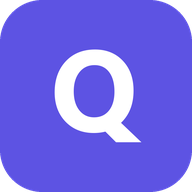
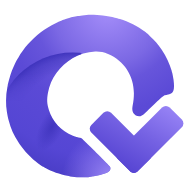
enterlogo chiqdi

diff --git a/src/components/layout/desktop/sidebar/Sidebar.tsx b/src/components/layout/desktop/sidebar/Sidebar.tsx
@@ -21,6 +21,7 @@ import { tagColorVar } from "@/utils/tagColor";
 import { todayApiDate } from "@/utils/apiDate";
 import { CusPopover } from "@/components/ui/popover/CusPopover";
 import { CusBadge } from "@/components/ui/badge/CusBadge";
+import { QubnixLogoIntro } from "@/components/shared/enter-logo-page/EnterLogoPage";
 import { personalSummaryQuery, workspaceListQuery } from "@/queries/doska.queries";
 import { useProjectsByDate } from "@/queries/tasks.queries";
 import type { OrganizationType } from "@/api/organizations/organizations.types";
@@ -67,6 +68,8 @@ export function Sidebar() {
   const navigate = useNavigate();
   const collapsed = useUiStore((s) => s.isSidebarCollapsed);
   const toggleSidebar = useUiStore((s) => s.toggleSidebar);
+  // "system" emas: ui.store faqat `.dark` qo'yadi — OS dark + ilova light bo'lsa matn oq chiqardi.
+  const logoTheme = useUiStore((s) => (s.isDarkMode ? "dark" : "light"));
 
   const selectedWorkspaceId = useWorkspaceStore((s) => s.selectedWorkspaceId);
   const selectWorkspace = useWorkspaceStore((s) => s.selectWorkspace);
@@ -133,9 +136,13 @@ export function Sidebar() {
     >
       <div className={`flex h-14 items-center ${collapsed ? "justify-center" : "justify-between px-5"}`}>
         {!collapsed && (
-          <span className="font-condensed text-xl tracking-wide text-brand">
-            qubnix {/* i18n-ignore — brend */}
-          </span>
+          <QubnixLogoIntro
+            animated={false}
+            theme={logoTheme}
+            className="w-32"
+            // Statik logo 0.88 masshtabda — chap chetga tekislanib tursin.
+            style={{ transformOrigin: "left center" }}
+          />
         )}
         <button
           onClick={toggleSidebar}

diff --git a/CLAUDE.md b/CLAUDE.md
@@ -132,7 +132,7 @@ All user-facing text goes through **i18next** (`react-i18next`). Never hardcode 
 - Updates are never applied silently: a new build downloads in the background → `needRefresh` → `components/layout/pwa/PwaUpdateToast.tsx` → user taps "Обновить". Checks run every 30 min and on tab focus. If the user tapped "Позже", the update stays waiting and the toast is shown again once per re-entry (app hidden ≥ 60 s, or a fresh load) — `registration.update()` alone never re-reports an already-waiting worker. `vercel.json` sends `no-cache` for `sw.js`/`index.html`/manifest — keep it, or updates won't be detected.
 - Profile → "Установить приложение" (`components/shared/install-app/`): Telegram → primary `WebApp.addToHomeScreen()` (Bot API 8.0+, a Telegram shortcut — same as Telegram's top "•••" menu item; on iOS it hands off to Safari) plus secondary `WebApp.openLink(VITE_WEB_APP_URL + "/profile?install=1")` for the real web app; Chrome/Edge/Android → native `beforeinstallprompt`; iOS Safari → steps + video only (no install API exists). `?install=1` auto-opens the guide on both platforms' profile.
 - Install videos (`public/install/<platform>.mp4`) are rendered in the separate Remotion project `D:/qubnix-video` — iOS: `src/install-ios/` (`InstallIOS` → `ios.mp4`, `InstallIOSTelegram` → `ios-telegram.mp4`), Android: `src/install-android/` (`InstallAndroid` → `android.mp4`, `InstallAndroidTelegram` → `android-telegram.mp4`), desktop: `src/install-desktop/` (`InstallDesktop` → `desktop.mp4`, 16:10 — Telegram Desktop has no shortcut, so it's shared by both modes); shared touch/step-badge/camera helpers in `src/install-common.tsx`. Timings live in each folder's `script.ts`. In-app: browser mode uses `<platform>.mp4`, Telegram mode `<platform>-telegram.mp4`. Step numbers in each video must match `INSTALL_STEPS` / `TELEGRAM_STEPS` in `InstallAppGuide.tsx`.
-- `public/*.png` icons are **placeholders** (letter "Q" on brand color) — replace the files, keep the names.
+- `public/*.png` icons are rendered from `src/assets/logo/qubnix-icon.svg` (the logo without the wordmark) on `#f8fafc` (= manifest `background_color`); keep the file names. `favicon.png` and `pwa-*.png` are transparent (no background); `apple-touch-icon.png` and `maskable-icon-512x512.png` must stay opaque full-bleed (iOS fills transparency with black; maskable keeps the logo inside the central 80% safe zone).
 
 ### Misc gotchas
 
